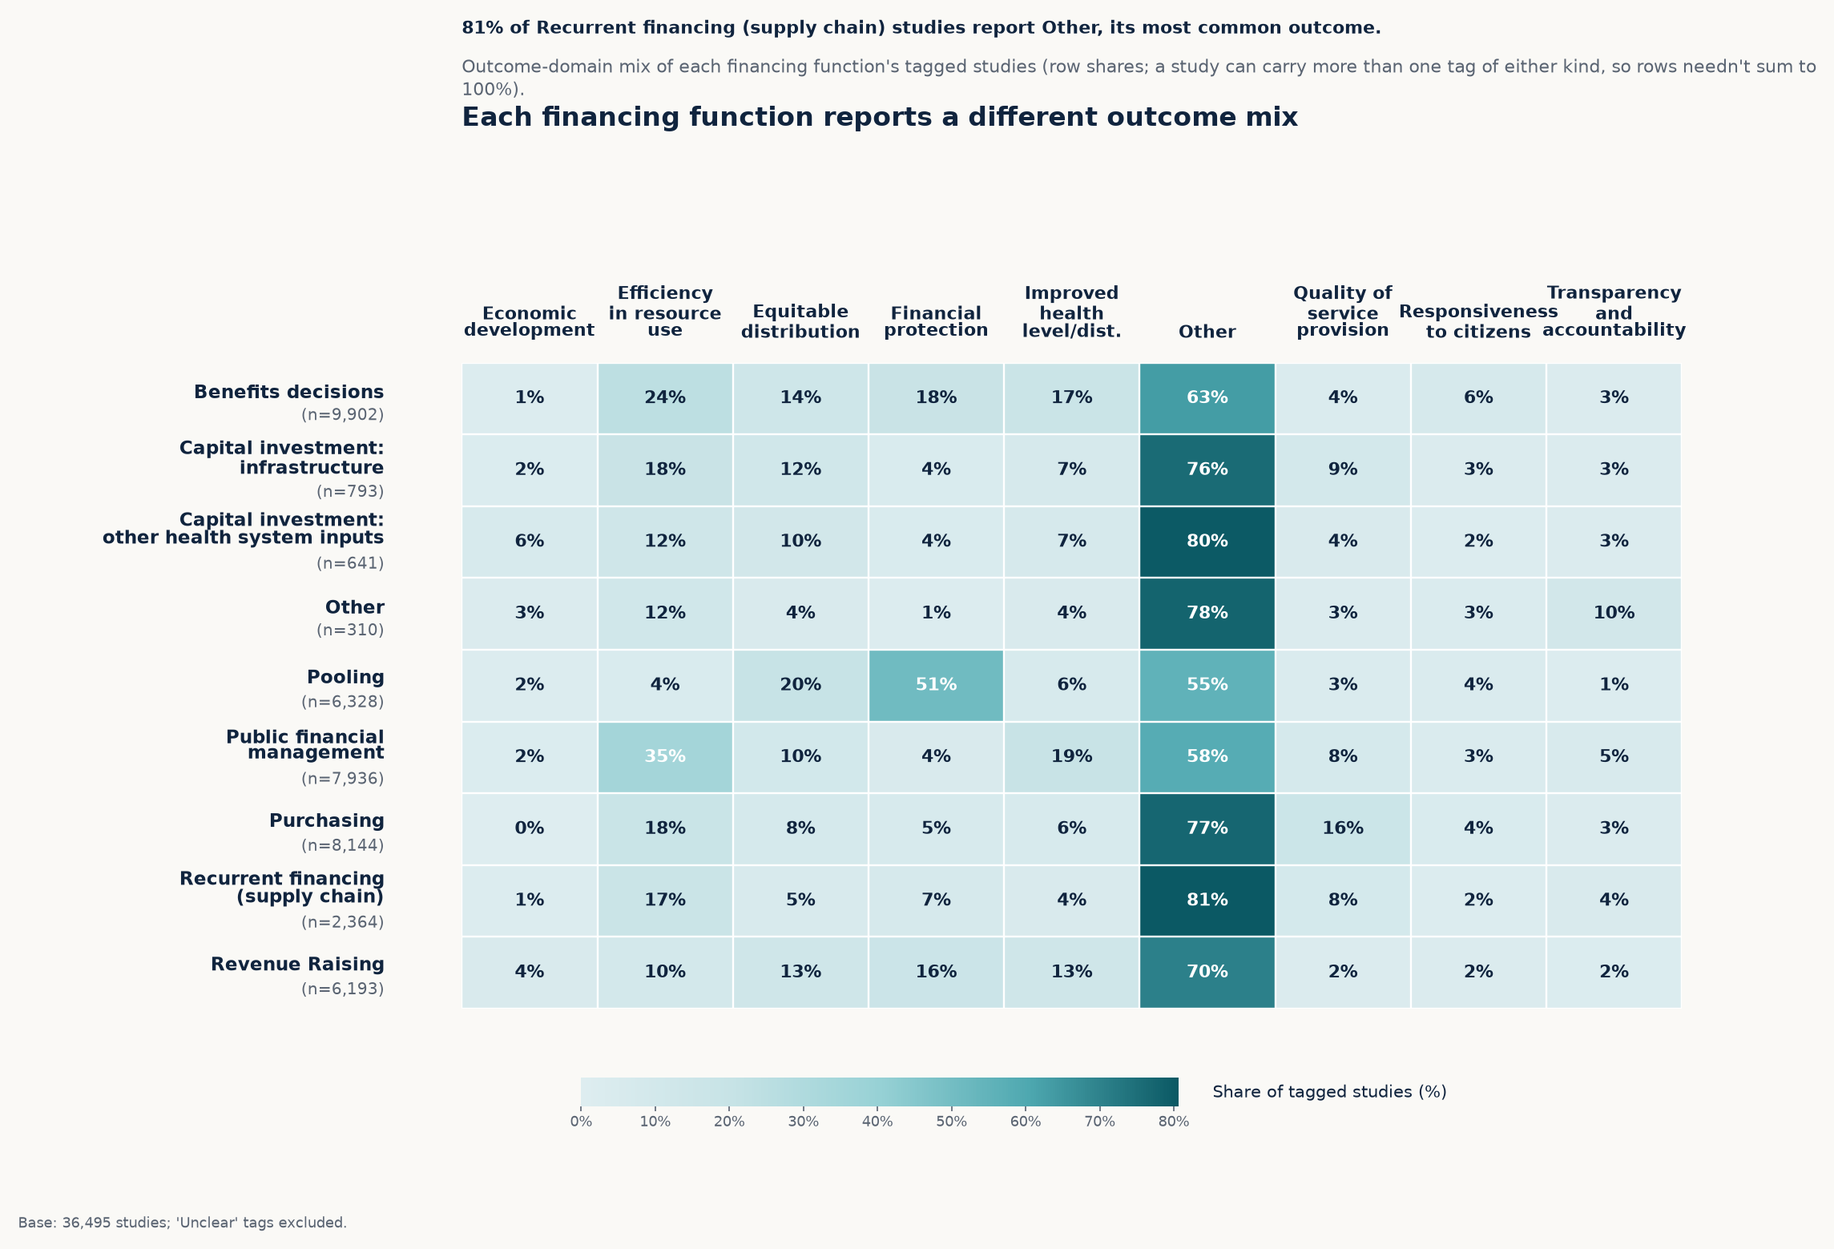
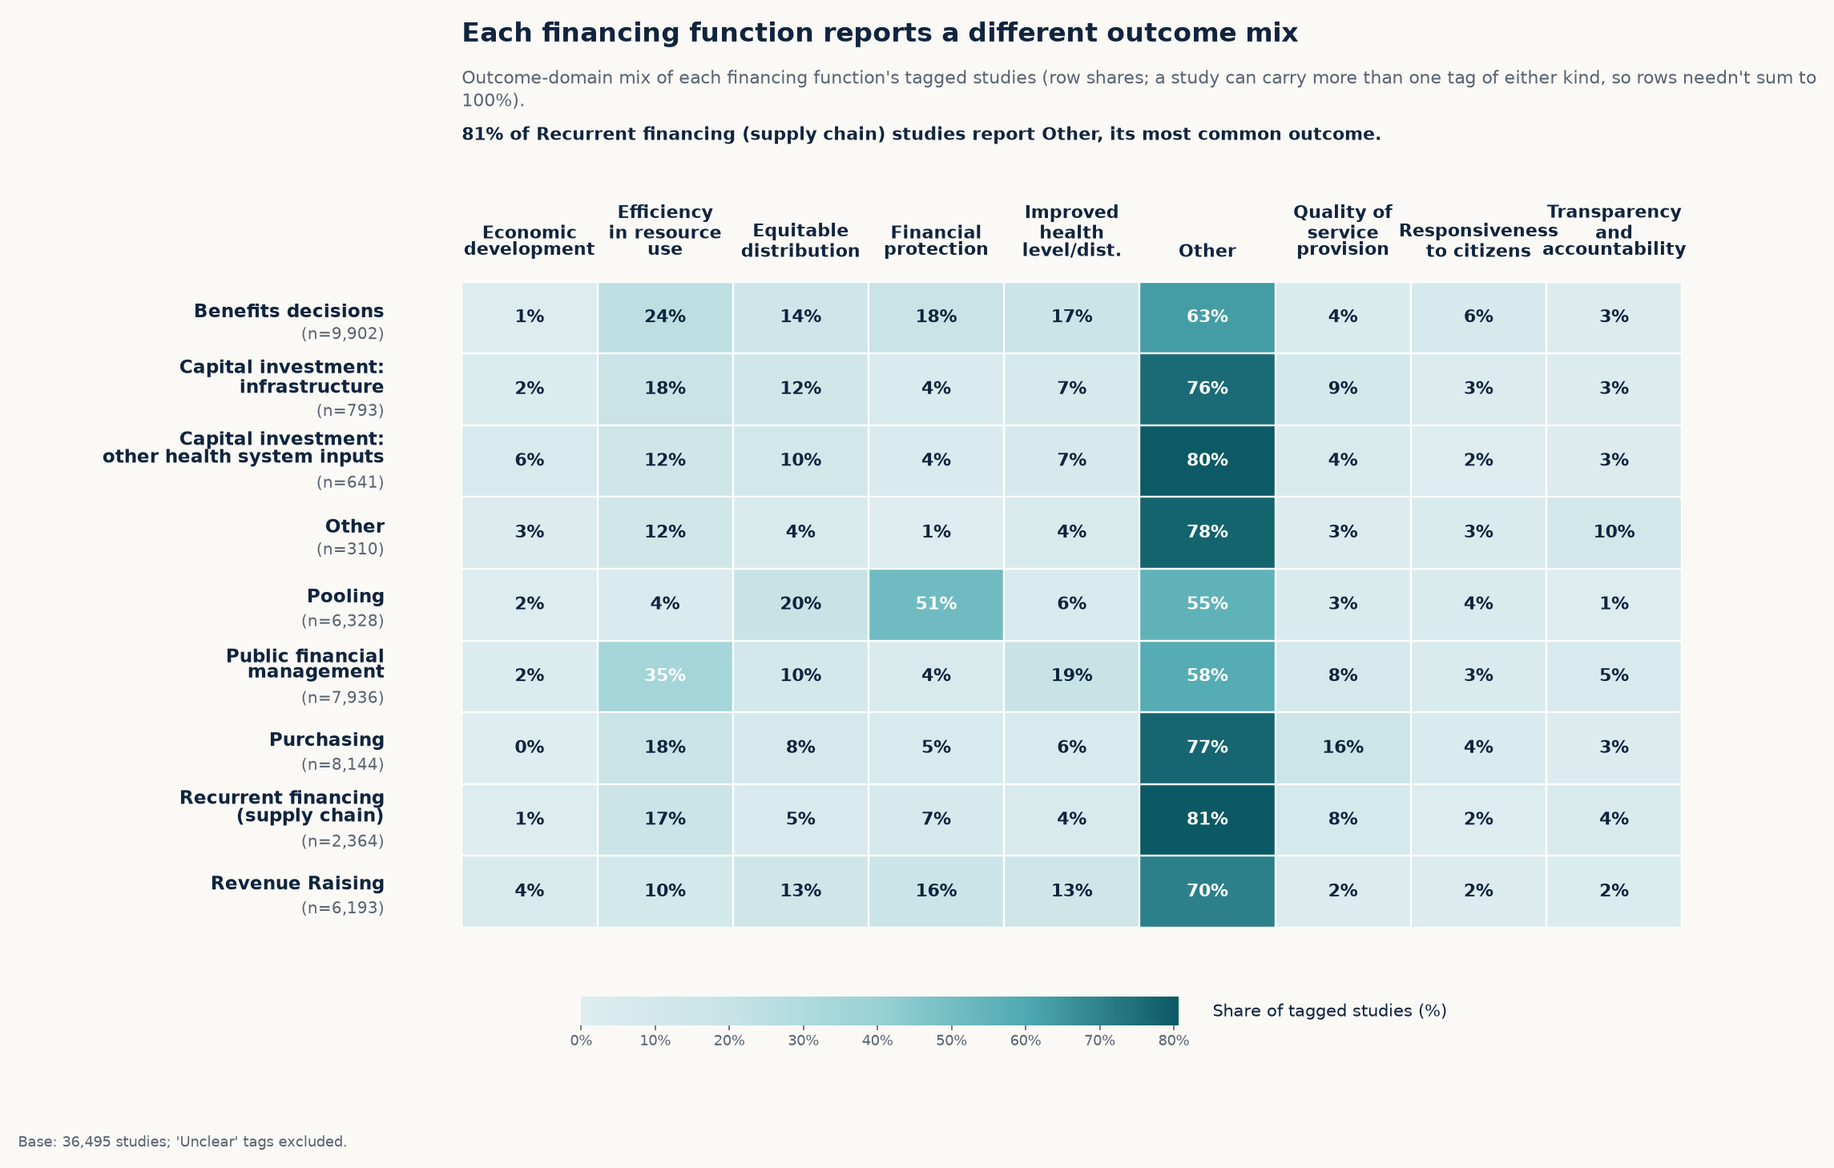
Updated figures

diff --git a/docs/index.html b/docs/index.html
@@ -11,7 +11,7 @@
      versions with SHA-384 integrity hashes verified by double fetch. -->
 <link rel="stylesheet" href="https://cdn.jsdelivr.net/npm/tom-select@2.3.1/dist/css/tom-select.min.css" integrity="sha384-krui876Mk6M6Lq6uj1SQo+u4MoImxFwCfwzWNU982QBMNci3VMZ3FoYSdUakJD5I" crossorigin="anonymous">
 <link rel="stylesheet" href="https://cdn.jsdelivr.net/npm/nouislider@15.8.1/dist/nouislider.min.css" integrity="sha384-PSZaVsyG9jDu8hFaSJev5s/9poIJlX7cuxSGdqCgXRHpo2DzIaZAyCd2rG/DJJmV" crossorigin="anonymous">
-<link rel="stylesheet" href="styles.css?v=2026-10-10g">
+<link rel="stylesheet" href="styles.css?v=2026-10-10h">
 </head>
 <body>
 
@@ -712,13 +712,16 @@
 
 
 <footer class="site-footer">
-  <strong>About the data:</strong> This release analyses 36,495 records from the HSF extraction dated 29 September, 2026. Classification is LLM-assisted with rigorous human verification. See <strong>Scope</strong> for details. · <strong>Sources:</strong> HFF extraction pipeline (LLM-assisted classification, GLM/Sonnet/DeepSeek consensus) · <a href="https://www.who.int/publications/i/item/9789240042476" target="_blank" rel="noopener">WHO Health System Performance Assessment framework</a> · World Bank (income groups, population) · IHME GBD 2023 &amp; IHME Health Spending 1995–2022 (country-level reference)
+  <!-- Record count and date are filled from the data by app.js (renderOverview). -->
+  <strong>About the data:</strong> This release analyses <span id="footer-n">36,495</span> records dated
+  <span id="footer-date">30 September 2026</span>. Classification is LLM-assisted with human oversight and verification.
+  See <a href="https://sawalee-3ie.github.io/health-financing-platform/#methods-title">methods and scope</a> for details.
 </footer>
 
 <script src="https://cdn.jsdelivr.net/npm/plotly.js-dist-min@2.35.2/plotly.min.js" integrity="sha384-cCVCZkAjYNxaYKbM8lsArLznDF/SvMFr1jcZrvOpSTCa0W40ZAdLzHCEulnUa5i7" crossorigin="anonymous"></script>
 <script src="https://cdn.jsdelivr.net/npm/tom-select@2.3.1/dist/js/tom-select.complete.min.js" integrity="sha384-cnROoUgVILyibe3J0zhzWoJ9p2WmdnK7j/BOTSWqVDbC1pVw2d+i6Q/1ESKJKCYf" crossorigin="anonymous"></script>
 <script src="https://cdn.jsdelivr.net/npm/nouislider@15.8.1/dist/nouislider.min.js" integrity="sha384-EcVTHT5RdDTvzbTIbNOtaNxNALeJYDgmv5Crp3NBmcdrCPrDnqp6I1+ETJ/FCFHI" crossorigin="anonymous"></script>
-<script type="module" src="app.js?v=2026-10-10n"></script>
+<script type="module" src="app.js?v=2026-10-10u"></script>
 
 </body>
 </html>

diff --git a/docs/app.js b/docs/app.js
@@ -1,6 +1,6 @@
 // Cache-busting build token — bump alongside index.html's ?v= query string
 // whenever app.js or the data files change.
-const BUILD = "2026-10-10o";
+const BUILD = "2026-10-10u";
 
 const CODED_COLS = ["study_design", "type_of_analysis", "data_type", "data_source",
   "unit_of_observation", "geo_scope", "era"];
@@ -1414,7 +1414,7 @@ if (typeof document !== "undefined") {
       + "across income groups, and how much of their work is freely available.",
     members: ["Research ownership & collaboration", "Open access & author countries"]
   }, {
-    title: "Topics & themes",
+    title: "Topic clustering & disease focus",
     blurb: "The subjects studies deal with: topics found in the wording of their abstracts, and the "
       + "diseases they address. These are different from financing functions and outcomes, which classify "
       + "the part of health financing a study examines and the results it measures.",
@@ -1631,6 +1631,14 @@ if (typeof document !== "undefined") {
     if (built) built.textContent = "Last update " + m.built;
     const updated = $("overview-updated");
     if (updated) updated.textContent = "Evidence map updated " + m.built;
+    // Footer: same study count as "Studies captured in the map", and the data build date.
+    const footN = $("footer-n");
+    if (footN) footN.textContent = fmtNum(db.nStudies);
+    const footDate = $("footer-date");
+    if (footDate && m.built) {
+      const d = new Date(m.built + "T00:00:00");
+      if (!isNaN(d)) footDate.textContent = d.toLocaleDateString("en-GB", { day: "numeric", month: "long", year: "numeric" });
+    }
 
     // Glance tiles: final formatted strings from content.json;
     // sub === null means no footer line.
@@ -2321,10 +2329,14 @@ if (typeof document !== "undefined") {
     grid.appendChild(card);
   }
 
+  const STACKED_SECTIONS = new Set(["Financing functions & outcomes"]);
+
   function renderFigureGrid(sec, grid) {
     grid.textContent = "";
     // A lone figure (e.g. the combined Methods & data figure) gets the full width.
     grid.classList.toggle("fig-grid-single", sec.figs.length === 1);
+    // Sections whose cards are stacked one per row at the same width.
+    grid.classList.toggle("fig-grid-stack", STACKED_SECTIONS.has(sec.title));
     const doneGroups = new Set();
     for (const f of sec.figs) {
       const panelGroup = FIGURE_PANEL_GROUPS.find(g => g.rows.some(r => r.includes(f.file)));

diff --git a/docs/styles.css b/docs/styles.css
@@ -1749,3 +1749,10 @@ table.dataTable thead th.num { text-align: right; }
 .filter-help p { margin: 0 0 .3rem; }
 .filter-help ul { margin: .2rem 0 0; padding-left: 1.1rem; }
 .filter-help li { margin: .1rem 0; }
+
+/* Sections stacked one card per row, all at the width of the widest card. */
+.fig-grid.fig-grid-stack { grid-template-columns: minmax(0, 1fr); max-width: 1180px; }
+.fig-grid-stack .fig-card.fig-card-wide { grid-column: auto; }
+.fig-grid-stack .fig-card > img,
+.fig-grid-stack .fig-card-tabbed img { max-height: 600px; object-fit: contain; background: #fff; }
+.fig-grid-stack .fig-card-tabbed img { aspect-ratio: auto; height: 560px; }

diff --git a/docs/dex_hff/build_figures_v5.py b/docs/dex_hff/build_figures_v5.py
@@ -264,12 +264,29 @@ def set_headline(ax, headline, desc, finding, fname):
     f_pts = 0
     d_pts = f_pts + lines(f) * 10.5 * 1.3 + 6
     h_pts = d_pts + lines(d) * 10.5 * 1.3 + 8
-    for text, pts, size, weight, color in ((f, f_pts, 10.5, "bold", INK),
+    # Created headline -> subtitle -> finding, the same order as the unwrapped path, so
+    # figures that reposition ax.texts[-3:] still get [headline, subtitle, finding].
+    for text, pts, size, weight, color in ((h, h_pts, 16, "bold", INK),
                                            (d, d_pts, 10.5, "normal", SUBHEAD_COLOR),
-                                           (h, h_pts, 16, "bold", INK)):
+                                           (f, f_pts, 10.5, "bold", INK)):
         tr = offset_copy(ax.transAxes, fig=fig, y=pts, units="points")
         ax.text(0, 1.02, text, transform=tr, fontsize=size, fontweight=weight, color=color,
                 ha="left", va="bottom", linespacing=1.25)
+
+
+def stack_headline(ax, texts, base_y):
+    """Re-stacks set_headline's [headline, subtitle, finding] texts upward from
+    base_y (axes fraction) with even point spacing, e.g. above top column headers."""
+    from matplotlib.transforms import offset_copy
+    h, d, f = texts
+    lines = lambda t: t.get_text().count("\n") + 1
+    f_pts = 0
+    d_pts = f_pts + lines(f) * 10.5 * 1.3 + 7
+    h_pts = d_pts + lines(d) * 10.5 * 1.3 + 9
+    for t, pts in ((f, f_pts), (d, d_pts), (h, h_pts)):
+        t.set_transform(offset_copy(ax.transAxes, fig=ax.figure, y=pts, units="points"))
+        t.set_position((0, base_y))
+        t.set_va("bottom")
 
 
 def set_footnote(fig, text):
@@ -2024,10 +2041,7 @@ set_headline(ax, "Each financing function reports a different outcome mix",
              "fig_function_outcome_heatmap.png")
 
 # Keep editorial text comfortably clear of the top column headers.
-headline_texts = ax.texts[-3:]
-headline_texts[0].set_position((0, 1.50))
-headline_texts[1].set_position((0, 1.355))
-headline_texts[2].set_position((0, 1.21))
+stack_headline(ax, ax.texts[-3:], 1.21)  # just above the top column headers
 
 # Match the reference: short horizontal scale under the table with descriptor
 # sitting to the right instead of under the scale.
@@ -2842,15 +2856,16 @@ if have_funders:
     # textwrap.fill() that produced 3-4 line headers tall enough to collide
     # with the editorial text; row labels stay single-line, as in
     # fig_funder_outcome_heatmap, since funder names fit fine unwrapped.
-    fig, ax = plt.subplots(figsize=(14.2, 12.8))
+    # Same size as fig_funder_outcome_heatmap: the two are tabs of one card on the site.
+    fig, ax = plt.subplots(figsize=(12, 8.6))
     im = ax.imshow(fh_grid, aspect="auto", cmap=fh_cmap, vmin=0, vmax=max(60, np.nanmax(fh_grid)))
     ax.set_xticks(np.arange(len(ms_funcs)))
     ax.set_yticks(np.arange(len(fh_order)))
     # fo_rowlabels' wraps (~20-24 char lines) were sized for that figure's
     # wider per-row space; with 9 columns here each line must be much
     # narrower or neighbouring headers collide, hence a tighter wrap here.
-    ax.set_xticklabels([textwrap.fill(SHORT_FN.get(fn, fn), width=13, break_long_words=False) for fn in ms_funcs],
-                        fontsize=8.6, fontweight="bold", linespacing=1.2)
+    ax.set_xticklabels([textwrap.fill(SHORT_FN.get(fn, fn), width=11, break_long_words=False) for fn in ms_funcs],
+                        fontsize=8, fontweight="bold", linespacing=1.15)
     ax.set_yticklabels([f"{f}  (n={fh_study_totals[f]:,})" for f in fh_order], fontsize=10, fontweight="bold")
     ax.tick_params(top=True, bottom=False, labeltop=True, labelbottom=False, length=0, pad=10)
     for lab in ax.get_xticklabels():
@@ -2884,10 +2899,7 @@ if have_funders:
     # Column headers wrap to 2 lines and sit above the axes (labeltop=True),
     # so push the editorial text further up to keep it clear of them — same
     # fix as fig_function_outcome_heatmap above.
-    headline_texts = ax.texts[-3:]
-    headline_texts[0].set_position((0, 1.50))
-    headline_texts[1].set_position((0, 1.355))
-    headline_texts[2].set_position((0, 1.21))
+    stack_headline(ax, ax.texts[-3:], 1.21)  # just above the top column headers
 
     fig.subplots_adjust(left=0.30, right=0.97, top=0.72, bottom=0.13)
     cbar_ax = fig.add_axes([0.36, 0.055, 0.30, 0.02])
@@ -2955,10 +2967,7 @@ if have_funders:
     )
     # Same clearance fix as the heatmap above: column headers sit above the
     # axes, so push the editorial text further up.
-    headline_texts = ax.texts[-3:]
-    headline_texts[0].set_position((0, 1.50))
-    headline_texts[1].set_position((0, 1.355))
-    headline_texts[2].set_position((0, 1.21))
+    stack_headline(ax, ax.texts[-3:], 1.21)  # just above the top column headers
 
     fig.subplots_adjust(left=0.30, right=0.97, top=0.72, bottom=0.17)
     fig.text(0.02, 0.765, "Funder (number of studies)", fontsize=10, fontweight="bold", color=INK, va="bottom")
@@ -3004,7 +3013,8 @@ if have_funders:
                               for o in fo_outs] for f in fu_out_order])
     fu_out_cmap = mcolors.LinearSegmentedColormap.from_list("fuo", ["#eef5f5", "#4f8f96", "#123a40"])
 
-    fig, ax = plt.subplots(figsize=(11, 7.6))
+    # Same size as fig_funder_function_heatmap (tabbed together on the site).
+    fig, ax = plt.subplots(figsize=(12, 8.6))
     im = ax.imshow(fu_out_grid, cmap=fu_out_cmap, aspect="auto", vmin=0, vmax=fu_out_grid.max())
     ax.set_xticks(range(len(fo_outs)))
     ax.set_xticklabels([SHORT_OUT.get(o, o) for o in fo_outs], fontsize=8, rotation=28, ha="right")
@@ -4393,7 +4403,7 @@ if have_ihme:
     src = src.sort_values("Difference_2024_to_2025")
     top_cutter = src.iloc[0]
     total_cut = src["Difference_2024_to_2025"].sum() / 1000  # millions -> billions
-    colors = ["#c0392b" if v < 0 else "#1baf7a" for v in src["Difference_2024_to_2025"]]
+    colors = ["#c96a4a" if v < 0 else "#2F9B92" for v in src["Difference_2024_to_2025"]]
     fig, ax = plt.subplots(figsize=(8.5, 4.6))
     span = float(src["Difference_2024_to_2025"].abs().max()) / 1000
     ax.barh(src["Source"], src["Difference_2024_to_2025"] / 1000, color=colors, zorder=3)
@@ -4422,7 +4432,8 @@ if have_ihme:
     hsp = pd.read_excel(DEX / "F11_Total_health_spending_per_person_by_WB_income_group_2000-2030.xlsx", sheet_name="in")
     hsp = hsp[["Year", "World Bank income group", "Total health spending per person", "Status"]].dropna()
     inc_order_hsp = ["High", "Upper-Middle", "Lower-Middle", "Low"]
-    inc_colors_hsp = dict(zip(inc_order_hsp, [ACCENT, "#1baf7a", GOLD, "#c0392b"]))
+    # Soft income palette (High -> Low), as in the site's other income charts.
+    inc_colors_hsp = dict(zip(inc_order_hsp, ["#356fa8", "#3b9b84", "#d2a84a", "#c96a4a"]))
     high_2025 = hsp[(hsp["World Bank income group"] == "High") & (hsp["Year"] == 2025)]["Total health spending per person"].iloc[0]
     low_2025 = hsp[(hsp["World Bank income group"] == "Low") & (hsp["Year"] == 2025)]["Total health spending per person"].iloc[0]
     low_2020 = hsp[(hsp["World Bank income group"] == "Low") & (hsp["Year"] == 2020)]["Total health spending per person"].iloc[0]
@@ -4516,7 +4527,8 @@ if have_ihme:
     dah_index = [100 * dah_by_year[y] / dah_base for y in common_years]
 
     fig, ax = plt.subplots(figsize=(9, 5.6))
-    func_palette = [ACCENT, "#1baf7a", "#8a5fb0", "#c0392b", "#2a9d8f", "#e07b39"]
+    # Each function keeps its site-wide colour (FUNCTION_COLORS).
+    func_palette = [FUNCTION_COLORS.get(fn, "#8FA6B8") for fn in top6]
     best_fn, best_corr = None, -2
     for fn, col in zip(top6, func_palette):
         series = [func_year_counts[fn].get(y, 0) for y in common_years]
@@ -4748,11 +4760,11 @@ if have_ihme:
     zone_x0_exp = exp_pts["total_exp"].median()
     ax1.axhline(median_rate_exp, color="#8a8272", linewidth=1, linestyle=(0, (4, 3)), zorder=2)
     ax1.add_patch(plt.Rectangle((zone_x0_exp, y_min_exp), x_max_exp - zone_x0_exp, median_rate_exp - y_min_exp,
-                                 facecolor="#c0392b", alpha=0.08, edgecolor="none", zorder=1))
+                                 facecolor="#c96a4a", alpha=0.08, edgecolor="none", zorder=1))
     zone_text_exp = "priority zone\nhigh spending, low research intensity"
     zone_tx_exp, zone_ty_exp = zone_x0_exp * 2.2, y_min_exp * 2.6
     ax1.text(zone_tx_exp, zone_ty_exp, zone_text_exp,
-             ha="left", va="center", fontsize=8.5, fontweight="bold", color="#a13a2a", linespacing=1.4)
+             ha="left", va="center", fontsize=8.5, fontweight="bold", color="#9c4f3a", linespacing=1.4)
 
     label_rows_exp = exp_pts[exp_pts["country"].isin(top_deficit_exp["country"])].sort_values("total_exp")
     declutter_labels(ax1, label_rows_exp, "total_exp", "per100k", name_map=SHORT_COUNTRY,
@@ -4850,7 +4862,7 @@ if have_ihme:
     ys_line_combo = xs_line_combo * k_combo
     ax1.plot(xs_line_combo, ys_line_combo, color="#8a8272", linewidth=1, linestyle=(0, (4, 3)), zorder=2)
     ax1.fill_between(xs_line_combo, [y_min_combo, y_min_combo], ys_line_combo,
-                      color="#c0392b", alpha=0.08, zorder=1)
+                      color="#c96a4a", alpha=0.08, zorder=1)
     # Position in log-space (not a plain fraction of the linear x-range, which
     # would sit almost at x_max on a log axis) and left-align well short of
     # the right edge — a long, centered line here previously ran past ax1's
@@ -4860,7 +4872,7 @@ if have_ihme:
     zone_tx_combo = 10 ** log_zone_x_combo
     zone_ty_combo = zone_tx_combo * k_combo * 0.3
     ax1.text(zone_tx_combo, zone_ty_combo, zone_text_combo,
-             ha="left", va="center", fontsize=8.2, fontweight="bold", color="#a13a2a", linespacing=1.4)
+             ha="left", va="center", fontsize=8.2, fontweight="bold", color="#9c4f3a", linespacing=1.4)
 
     label_rows_combo = combo_pts[combo_pts["country"].isin(top_deficit_combo["country"])].sort_values("dalys")
     declutter_labels(ax1, label_rows_combo, "dalys", "total_exp", name_map=SHORT_COUNTRY,
@@ -4924,8 +4936,7 @@ if have_ihme:
         function_studies[g].add(s)
 
     comp_funcs = [fn for fn in FUNC_GRPS if fn != "Unclear"]
-    comp_palette = dict(zip(comp_funcs, [ACCENT, GOLD, "#1baf7a", "#8a5fb0", "#c0392b",
-                                          "#2a9d8f", "#e07b39", "#6b7280", "#3d5a80"]))
+    comp_palette = {fn: FUNCTION_COLORS.get(fn, "#8FA6B8") for fn in comp_funcs}  # site-wide function colours
     def build_function_share_df(excluded_studies=None):
         """Build country-level financing-function shares after optional study exclusion.
 
@@ -5011,7 +5022,7 @@ if have_ihme:
         lollipop = sorted(local_slopes.items(), key=lambda kv: kv[1][1])
         labels_lol = [SHORT_FN.get(fn, fn) for fn, _ in lollipop]
         r_vals = [v[1] for _, v in lollipop]
-        colors_lol = ["#c0392b" if r < 0 else ACCENT for r in r_vals]
+        colors_lol = ["#c96a4a" if r < 0 else ACCENT for r in r_vals]
         y_pos = np.arange(len(labels_lol))
 
         fig, ax = plt.subplots(figsize=(8.5, 5.2))
@@ -5095,9 +5106,9 @@ if have_ihme:
 
         fig, ax = plt.subplots(figsize=(11.2, 6.25))
         ax.axvline(0, color="#8a8272", linewidth=0.9, zorder=1)
-        ax.hlines(y_all, 0, compare_all_vals, color="#90b7e1", linewidth=2.2, zorder=2)
+        ax.hlines(y_all, 0, compare_all_vals, color="#a9c6e2", linewidth=2.2, zorder=2)
         ax.hlines(y_no, 0, compare_no_vals, color="#1f5fa8", linewidth=2.2, zorder=2)
-        ax.scatter(compare_all_vals, y_all, s=92, color="#90b7e1", edgecolor="white", linewidth=0.8,
+        ax.scatter(compare_all_vals, y_all, s=92, color="#a9c6e2", edgecolor="white", linewidth=0.8,
                    zorder=4, label="All studies")
         ax.scatter(compare_no_vals, y_no, s=92, color="#1f5fa8", edgecolor="white", linewidth=0.8,
                    zorder=4, label="Excluding USA-mapped studies")
@@ -5109,7 +5120,7 @@ if have_ihme:
         for y, r in zip(y_all, compare_all_vals):
             ax.text(r + (0.018 if r >= 0 else -0.018), y, f"{r:.2f}",
                     va="center", ha="left" if r >= 0 else "right",
-                    fontsize=8.6, color="#557da8")
+                    fontsize=8.6, color="#4f7cb8")
         for y, r in zip(y_no, compare_no_vals):
             ax.text(r + (0.018 if r >= 0 else -0.018), y, f"{r:.2f}",
                     va="center", ha="left" if r >= 0 else "right",
@@ -5161,7 +5172,7 @@ if have_ihme:
         fig, ax = plt.subplots(figsize=(11.2, 6.8))
         for y, x1, x2 in zip(y_pos, corr_all_vals, corr_no_vals):
             ax.plot([x1, x2], [y, y], color="#d6dee7", linewidth=2.6, zorder=2)
-        ax.scatter(corr_all_vals, y_pos, s=104, color="#90b7e1", edgecolor="white", linewidth=0.9,
+        ax.scatter(corr_all_vals, y_pos, s=104, color="#a9c6e2", edgecolor="white", linewidth=0.9,
                    zorder=3, label="All studies")
         ax.scatter(corr_no_vals, y_pos, s=104, color="#1f5fa8", edgecolor="white", linewidth=0.9,
                    zorder=4, label="Excluding USA-mapped studies")
@@ -5229,7 +5240,7 @@ if have_ihme:
         )
     for y, x1, x2 in zip(y_pos, sens_all_vals, sens_no_vals):
         ax.plot([x1, x2], [y, y], color="#d6dee7", linewidth=2.6, zorder=2)
-    ax.scatter(sens_all_vals, y_pos, s=104, color="#90b7e1", edgecolor="white", linewidth=0.9,
+    ax.scatter(sens_all_vals, y_pos, s=104, color="#a9c6e2", edgecolor="white", linewidth=0.9,
                zorder=3, label="All studies")
     ax.scatter(sens_no_vals, y_pos, s=104, color="#1f5fa8", edgecolor="white", linewidth=0.9,
                zorder=4, label="Excluding USA-mapped studies")
@@ -5259,7 +5270,7 @@ if have_ihme:
     delta_items = sorted(overall_delta_no_usa.items(), key=lambda kv: kv[1])
     delta_labels = [SHORT_FN.get(fn, fn) for fn, _ in delta_items]
     delta_vals = [v for _, v in delta_items]
-    delta_colors = ["#c0392b" if v < 0 else ACCENT for v in delta_vals]
+    delta_colors = ["#c96a4a" if v < 0 else ACCENT for v in delta_vals]
     y_pos = np.arange(len(delta_labels))
     fig, ax = plt.subplots(figsize=(8.8, 5.2))
     ax.hlines(y_pos, 0, delta_vals, color=delta_colors, linewidth=2.2, zorder=3)
@@ -5319,8 +5330,8 @@ if have_ihme:
     for s, g in zip(outcome_j["s"], outcome_j["g"]):
         outcome_studies[g].add(s)
     out_comp_outs = [o for o in OUTCOME_GRPS if o != "Unclear"]
-    out_comp_palette = dict(zip(out_comp_outs, [ACCENT, GOLD, "#1baf7a", "#8a5fb0", "#c0392b",
-                                                 "#2a9d8f", "#e07b39", "#6b7280", "#3d5a80"]))
+    out_comp_palette = dict(zip(out_comp_outs, ["#1764C0", "#2F9B92", "#63B0BC", "#93A3D0", "#D2B06B",
+                                                 "#88B7A8", "#B79BCB", "#7E94B1", "#C98F7A"]))  # soft gallery set
     out_comp_rows = []
     for name, spend in spend_by_country.items():
         i = country_idx[name]
